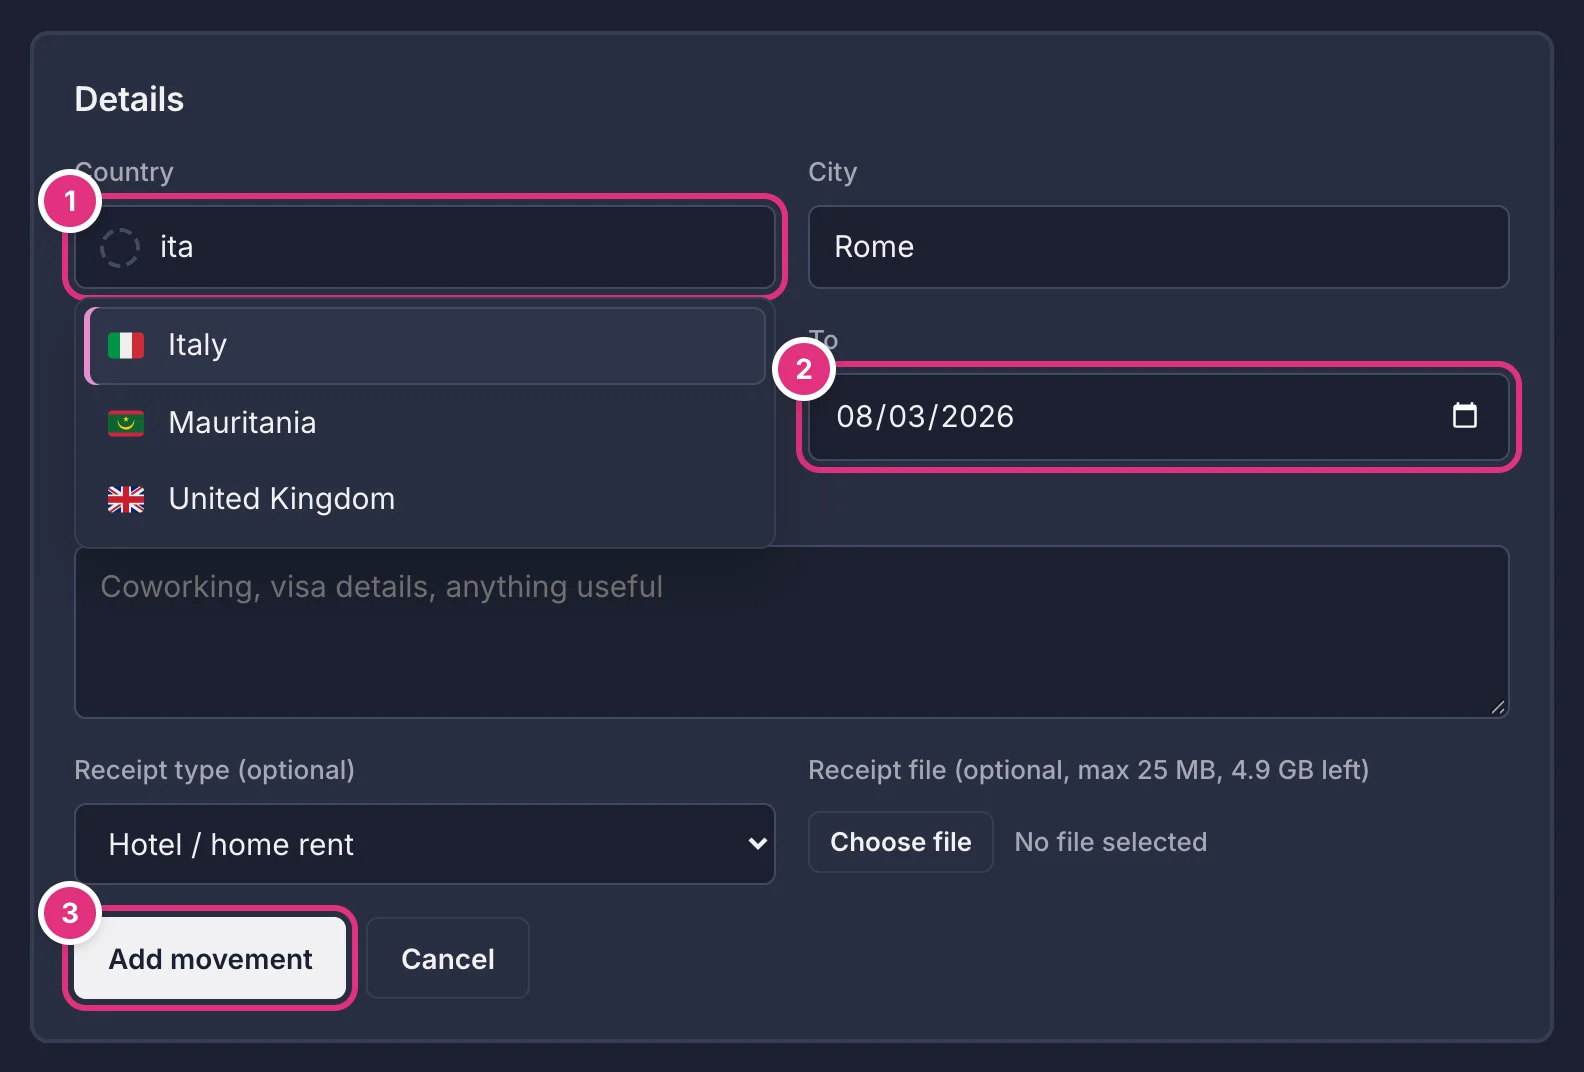
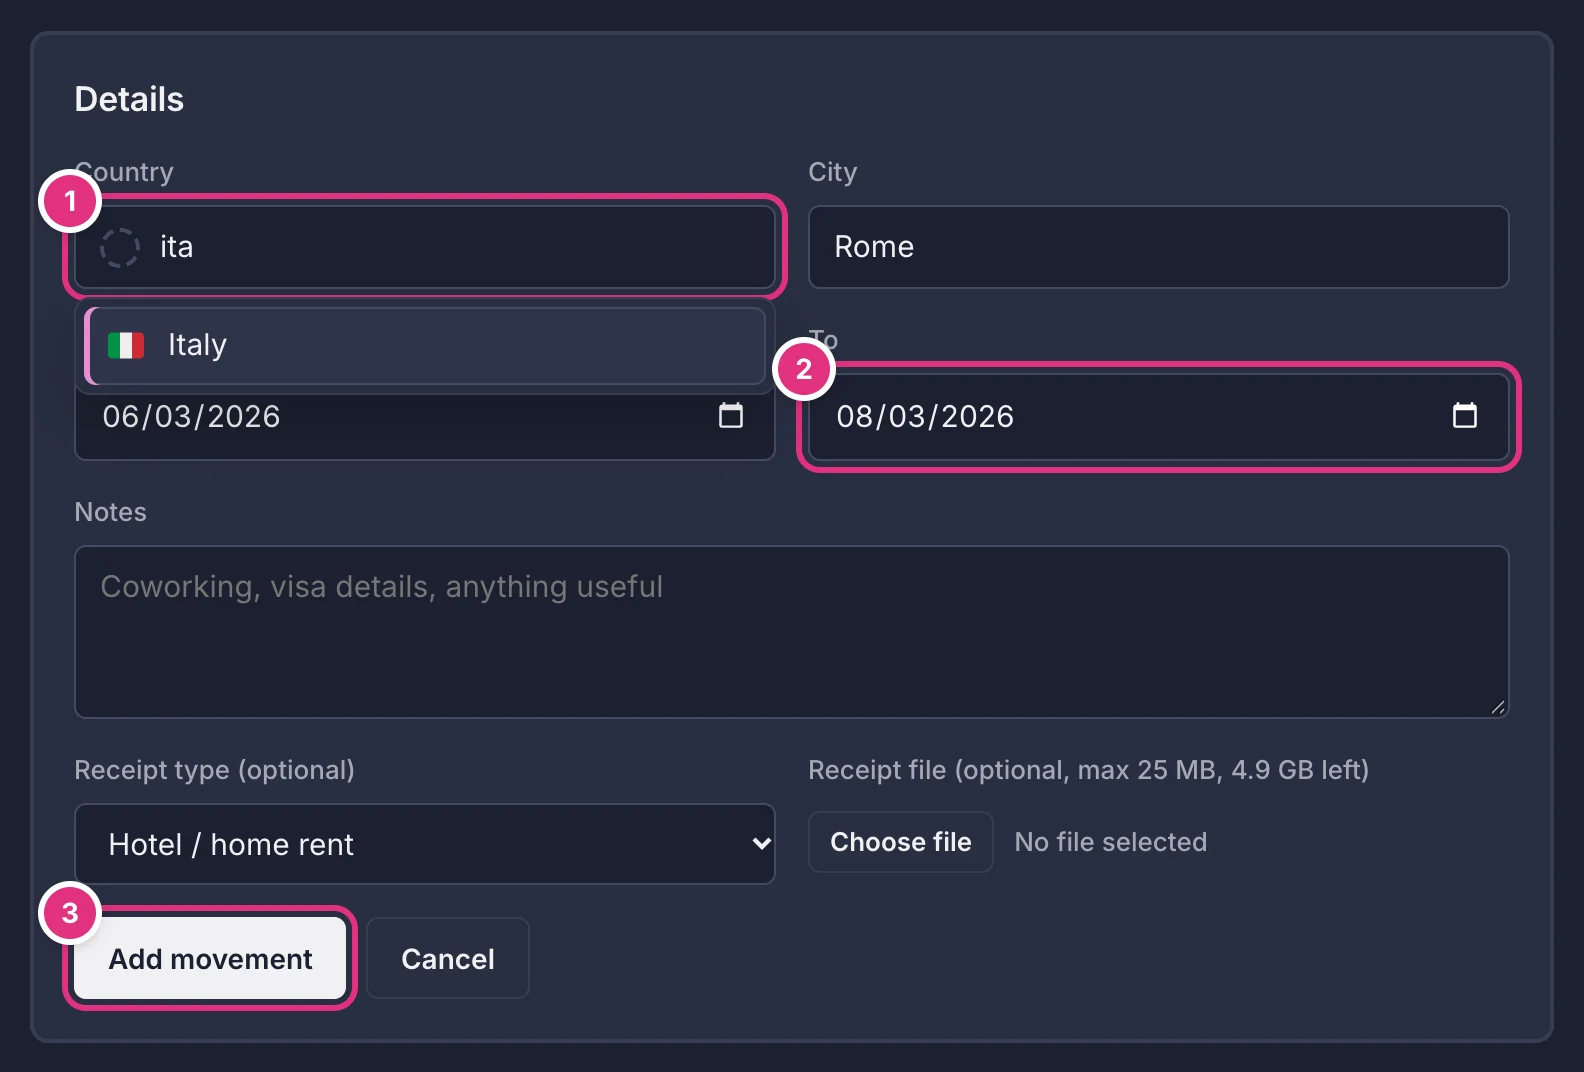
1.12.11: card content at the bottom, country search fixes, card title wording

Changed region(s): [[0.0309, 0.3694, 0.464, 0.5233], [0.4331, 0.3694, 0.4949, 0.4002]]

diff --git a/templates/docs.html b/templates/docs.html
@@ -107,7 +107,7 @@
         <p>A <strong>movement</strong> is a stay away from your base: a trip, a month in another city, a flight day. Log each one with its country, city and dates.</p>
         <section id="add-movement" class="doc-sub" data-doc-title="Add a movement">
           <h3>Add a movement</h3>
-          {{ shot('movement-new', 'The New movement form: after typing "ita" in Country, the list offers Italy, Mauritania and United Kingdom; numbered markers point at Country, the To date and the Add movement button', '1 Pick the country, 2 set the dates, 3 press Add movement. A receipt can be attached right away.') }}
+          {{ shot('movement-new', 'The New movement form: after typing "ita" in Country, the list offers Italy; numbered markers point at Country, the To date and the Add movement button', '1 Pick the country, 2 set the dates, 3 press Add movement. A receipt can be attached right away.') }}
           <ul>
             <li>Press <strong>+ Add movement</strong> on the dashboard.</li>
             <li><strong>Both dates count.</strong> From 1 March to 3 March is 3 days.</li>
@@ -183,7 +183,7 @@
 
         <section id="threshold" class="doc-sub" data-doc-title="The 183 day line">
           <h3>The {{ threshold }} day line</h3>
-          <p>Many countries treat you as a tax resident once you spend {{ threshold }} days or more there in a year. The <strong>Days in Base Country</strong> card marks that line: it says <strong>At least {{ threshold }} days</strong>, or how many days you are short. In <strong>Days per country</strong> a bar turns red when another country reaches {{ threshold }} days.</p>
+          <p>Many countries treat you as a tax resident once you spend {{ threshold }} days or more there in a year. The <strong>Days in Base country</strong> card marks that line: it says <strong>At least {{ threshold }} days</strong>, or how many days you are short. In <strong>Days per country</strong> a bar turns red when another country reaches {{ threshold }} days.</p>
           <p class="doc-note">Nomad Life counts days; it does not give tax advice. Rules differ by country (some count partial days or look at other ties), so check yours with an accountant. The guides on <a href="{{ url_for('guide', slug='183-day-rule') }}">the {{ threshold }} day rule</a> and <a href="{{ url_for('guide', slug='count-days-in-a-country') }}">counting your days</a> explain more.</p>
         </section>
         <p class="doc-top"><a href="#top"><span aria-hidden="true">&uarr;</span> Back to the top</a></p>
@@ -191,13 +191,13 @@
 
       <section id="dashboard" class="doc-section" data-doc-title="Your dashboard">
         <h2>Your dashboard</h2>
-        {{ shot('dashboard', 'The top of the 2026 dashboard: Base Lisbon, Portugal; Days in Base Country 248 of 365, At least 183 days; Days outside the Base Country 34; Year elapsed 274 of 365. Numbered markers point at + Year, + Add movement and Manage base and contract', '1 Add a year, 2 add a movement, 3 manage your base and rental contract.') }}
+        {{ shot('dashboard', 'The top of the 2026 dashboard: Base Lisbon, Portugal; Days in Base country 248 of 365, At least 183 days; Days outside Base country 34; Year elapsed 274 of 365. Numbered markers point at + Year, + Add movement and Manage base and contract', '1 Add a year, 2 add a movement, 3 manage your base and rental contract.') }}
         <section id="cards" class="doc-sub" data-doc-title="The four cards">
           <h3>The four cards</h3>
           <ul>
             <li><strong>Base</strong>: your base city and country, and the link to manage them.</li>
-            <li><strong>Days in Base Country</strong>: days counted for your base, out of the days in the year, with the {{ threshold }} day marker. The <strong>Show {{ threshold }} marker</strong> switch, here and on Days per Country, hides the marker and its message on both cards; this browser remembers it.</li>
-            <li><strong>Days outside the Base Country</strong>: days counted for every other country.</li>
+            <li><strong>Days in Base country</strong>: days counted for your base, out of the days in the year, with the {{ threshold }} day marker. The <strong>Show {{ threshold }} marker</strong> switch, here and on Days per Country, hides the marker and its message on both cards; this browser remembers it.</li>
+            <li><strong>Days outside Base country</strong>: days counted for every other country.</li>
             <li><strong>Year elapsed</strong>: how far into the year today is.</li>
           </ul>
         </section>

diff --git a/static/js/theme.js b/static/js/theme.js
@@ -17,7 +17,7 @@
     });
   }
 
-  // The "Show 183 marker" switches of the Days in Base Country and Days per Country cards, one
+  // The "Show 183 marker" switches of the Days in Base country and Days per Country cards, one
   // setting for both: off hides the marker and its message (.day-marker) through data-marker on
   // <html>, which theme-init.js sets again on the next page before it is drawn. Kept in this
   // browser, for every year; flipping one moves the other too.
@@ -244,7 +244,8 @@
                                 0x1F1E6 + code.toUpperCase().charCodeAt(1) - 65);
   };
   var entries = countries.map(function (c) {
-    return { name: c[0], code: c[1], flag: flagOf(c[1]), keys: [fold(c[0])].concat((c[2] || []).map(fold)) };
+    return { name: c[0], code: c[1], flag: flagOf(c[1]), aliases: c[2] || [],
+             keys: [fold(c[0])].concat((c[2] || []).map(fold)) };
   });
   var exact = {};
   [0, 1, 2].forEach(function (pass) {  // names win over codes, codes over aliases
@@ -253,24 +254,30 @@
       keys.forEach(function (k) { if (!(k in exact)) exact[k] = e; });
     });
   });
+  // Matches the start of a name, of one of its words, or of an alias (never the middle of a
+  // word: "ita" found Mauritania, and United Kingdom through "Britain"). A country found only
+  // through an alias gets that alias as its hint, so "eng" shows "United Kingdom (England)".
   var search = function (query) {
     var q = fold(query);
-    if (!q) return entries.slice();
+    var all = entries.slice();
+    all.hints = [];
+    if (!q) return all;
     var scored = [];
     entries.forEach(function (e) {
-      var best = e.code.toLowerCase() === q ? 1 : 99;
+      var best = e.code.toLowerCase() === q ? 1 : 99, via = "";
       e.keys.forEach(function (k, i) {
         var s = 99, alias = i > 0 ? 1 : 0;
         if (k === q) s = 0 + alias;
         else if (k.indexOf(q) === 0) s = 2 + alias;
-        else if ((" " + k).indexOf(" " + q) >= 0 || k.indexOf("-" + q) >= 0) s = 4 + alias;
-        else if (k.indexOf(q) >= 0) s = 6 + alias;
-        if (s < best) best = s;
+        else if ((" " + k).indexOf(" " + q) >= 0) s = 4 + alias;
+        if (s < best) { best = s; via = alias ? e.aliases[i - 1] : ""; }
       });
-      if (best < 99) scored.push([best, e]);
+      if (best < 99) scored.push([best, e, via]);
     });
     scored.sort(function (a, b) { return a[0] - b[0] || a[1].name.localeCompare(b[1].name); });
-    return scored.map(function (x) { return x[1]; });
+    var found = scored.map(function (x) { return x[1]; });
+    found.hints = scored.map(function (x) { return x[2]; });
+    return found;
   };
 
   document.querySelectorAll("input[data-country-combo]").forEach(function (input, n) {
@@ -345,6 +352,13 @@
         var label = document.createElement("span");
         label.textContent = e.name;
         li.appendChild(f); li.appendChild(label);
+        var hint = items.hints && items.hints[i];
+        if (hint) {  // what the typed text matched: "United Kingdom (England)"
+          var via = document.createElement("span");
+          via.className = "combo-hint";
+          via.textContent = "(" + hint + ")";
+          li.appendChild(via);
+        }
         li.addEventListener("mousedown", function (ev) { ev.preventDefault(); });  // keep focus in the input
         li.addEventListener("click", function () { choose(e); });
         list.appendChild(li);

diff --git a/static/css/style.css b/static/css/style.css
@@ -313,6 +313,9 @@ main:focus { outline: none; }
 .stat-base::before { content: ""; position: absolute; inset: 0 0 auto 0; height: 3px; background: var(--gradient); }
 .stat-head { display: flex; flex-direction: column; gap: 6px; }
 .stat-head .switch { align-self: flex-end; }  /* above the title, at the top right */
+/* Cards in a row share one height: the title stays at the top and the content sits at the
+   bottom, so a card with less to show has its gap under the title, not under the content. */
+.year-stats .stat > .stat-label + *, .year-stats .stat > .stat-head + * { margin-top: auto; }
 
 /* iOS style switch (role="switch", aria-checked), here for the 183 day marker of the Days in
    Base Country and Days per Country cards, one setting for both. Off hides everything marked
@@ -350,6 +353,8 @@ main:focus { outline: none; }
 
 .side { display: grid; grid-template-columns: repeat(3, minmax(0, 1fr)); grid-template-rows: auto 1fr; column-gap: 20px; row-gap: 0; align-items: stretch; min-width: 0; }
 /* Receipt Storage and Accountant Package share row 1 and so always match; Days per Country spans both rows, so it matches them until it has more to show and then alone grows into row 2. */
+.side > .card { display: flex; flex-direction: column; }
+.side > .card > .card-head + * { margin-top: auto; }  /* content at the bottom, as in the top cards */
 .side > .days-card { grid-column: 1; grid-row: 1 / span 2; }
 .side > .storage-card { grid-column: 2; grid-row: 1; }
 .side > .package-card { grid-column: 3; grid-row: 1; }
@@ -563,6 +568,7 @@ main:focus { outline: none; }
 .combo-list li:hover { background: var(--surface-2); }
 .combo-list li[aria-selected="true"] { background: var(--surface-2); box-shadow: inset 3px 0 0 var(--link), inset 0 0 0 1px var(--input-border); }
 .combo-list .flag { width: 22px; text-align: center; font-size: 18px; }
+.combo-hint { color: var(--muted); font-size: 13px; }  /* the alias the typed text matched */
 .combo-empty:empty { display: none; }
 .combo-empty { position: absolute; z-index: 30; left: 0; right: 0; top: calc(100% + 4px); padding: 10px 12px; font-size: 13px; color: var(--muted);
   background: var(--surface); border: 1px solid var(--border); border-radius: 8px; }

diff --git a/templates/dashboard.html b/templates/dashboard.html
@@ -30,7 +30,7 @@
       {# Shown by theme.js; the choice is kept in this browser (theme-init.js applies it before
          the page is drawn). Without JavaScript the marker always shows. #}
       <button type="button" class="switch" role="switch" aria-checked="true" data-marker-switch hidden><span class="switch-label">Show {{ stats.threshold }} marker</span><span class="switch-track" aria-hidden="true"><span class="switch-thumb"></span></span></button>
-      <p class="stat-label">Days in Base Country</p>
+      <p class="stat-label">Days in Base country</p>
     </div>
     <p class="stat-value">{{ stats.base_days }} <span class="muted stat-of">/ {{ stats.total }}</span></p>
     <div class="meter" aria-hidden="true">
@@ -44,7 +44,7 @@
     {% endif %}
   </div>
   <div class="card stat">
-    <p class="stat-label">Days outside the Base Country</p>
+    <p class="stat-label">Days outside Base country</p>
     <p class="stat-value">{{ stats.abroad_days }}</p>
     <p class="muted">{{ movements|length }} movement{{ '' if movements|length == 1 else 's' }} logged</p>
   </div>
@@ -215,7 +215,7 @@
   <section class="card days-card">
     <div class="card-head">
       <h2>Days per Country</h2>
-      {# The same setting as the switch of Days in Base Country: both move together. #}
+      {# The same setting as the switch of Days in Base country: both move together. #}
       <button type="button" class="switch" role="switch" aria-checked="true" data-marker-switch hidden><span class="switch-label">Show {{ stats.threshold }} marker</span><span class="switch-track" aria-hidden="true"><span class="switch-thumb"></span></span></button>
     </div>
     <p class="muted small">A day shared by two stays, such as a travel day, counts toward the stay that started later.</p>

diff --git a/tests/test_country_search.py b/tests/test_country_search.py
@@ -1,0 +1,72 @@
+"""The country picker's search (static/js/theme.js), run in Node on the app's own country list:
+it matches the start of a name, of a word or of an alias, never the middle of a word, and a
+country found through an alias names that alias."""
+import json
+import os
+import shutil
+import subprocess
+import tempfile
+import unittest
+
+import app as appmod
+
+ROOT = os.path.dirname(os.path.dirname(os.path.abspath(__file__)))
+
+
+@unittest.skipUnless(shutil.which("node"), "Node is not installed")
+class CountrySearchTests(unittest.TestCase):
+    @classmethod
+    def setUpClass(cls):
+        with open(os.path.join(ROOT, "static", "js", "theme.js"), encoding="utf-8") as f:
+            js = f.read()
+        code = js[js.index("  var fold = function (s) {"):
+                  js.index('  document.querySelectorAll("input[data-country-combo]")')]
+        data = [[c[0], c[1], list(c[2]) if len(c) > 2 else []] for c in appmod.COUNTRY_DATA]
+        script = ("var countries = %s;\n%s\nvar out = {};\n"
+                  "JSON.parse(process.argv[2]).forEach(function (q) { var r = search(q);\n"
+                  "  out[q] = r.map(function (e, i) { return [e.name, r.hints[i] || \"\"]; }); });\n"
+                  "console.log(JSON.stringify(out));\n" % (json.dumps(data), code))
+        cls.script = tempfile.NamedTemporaryFile("w", suffix=".js", delete=False, encoding="utf-8")
+        cls.script.write(script)
+        cls.script.close()
+
+    @classmethod
+    def tearDownClass(cls):
+        os.unlink(cls.script.name)
+
+    def search(self, *queries):
+        out = subprocess.run(["node", self.script.name, json.dumps(list(queries))],
+                             capture_output=True, text=True, check=True).stdout
+        return json.loads(out)
+
+    def test_letters_inside_a_word_do_not_match(self):
+        found = self.search("ita", "it", "land", "stan")
+        # "ita" found Mauritania, and United Kingdom through the alias "Great Britain".
+        self.assertEqual(found["ita"], [["Italy", ""]])
+        self.assertEqual(found["it"], [["Italy", ""]])
+        self.assertEqual(found["land"], [])
+        self.assertEqual(found["stan"], [])
+
+    def test_names_words_and_codes_still_match(self):
+        found = self.search("new ", "zealand", "gb", "guinea bissau", "united")
+        self.assertEqual([n for n, _ in found["new "]], ["New Caledonia", "New Zealand", "Papua New Guinea"])
+        self.assertEqual(found["zealand"], [["New Zealand", ""]])
+        self.assertEqual(found["gb"][0], ["United Kingdom", ""])
+        self.assertEqual(found["guinea bissau"][0], ["Guinea-Bissau", ""])
+        self.assertIn(["United Kingdom", ""], found["united"])
+
+    def test_a_country_found_through_an_alias_names_it(self):
+        found = self.search("eng", "holland", "st lucia")
+        self.assertEqual(found["eng"], [["United Kingdom", "England"]])
+        self.assertEqual(found["holland"], [["Netherlands", "Holland"]])
+        self.assertEqual(found["st lucia"][0], ["Saint Lucia", "St Lucia"])
+
+    def test_the_hint_is_shown_in_the_list(self):
+        with open(os.path.join(ROOT, "static", "js", "theme.js"), encoding="utf-8") as f:
+            js = f.read()
+        self.assertIn('via.className = "combo-hint";', js)
+        self.assertIn('via.textContent = "(" + hint + ")";', js)
+
+
+if __name__ == "__main__":
+    unittest.main()

diff --git a/tests/test_marker_switch.py b/tests/test_marker_switch.py
@@ -1,4 +1,4 @@
-"""The "Show 183 marker" switch of the Days in Base Country card, and the renamed cards."""
+"""The "Show 183 marker" switch of the Days in Base country card, and the renamed cards."""
 import os
 
 import app as appmod
@@ -31,7 +31,7 @@ class MarkerSwitchTests(AppTestCase):
                       card)
         self.assertIn('<i class="day-marker" style="left:', card)
         self.assertIn('<p class="pill pill-warn day-marker">', card)
-        self.assertIn('<p class="stat-label">Days outside the Base Country</p>', html)
+        self.assertIn('<p class="stat-label">Days outside Base country</p>', html)
         # The same switch on Days per Country, one setting for both.
         self.assertEqual(html.count(f'data-marker-switch hidden><span class="switch-label">Show {threshold} marker</span>'), 2)
         self.assertNotIn("Days abroad", html)
@@ -39,7 +39,7 @@ class MarkerSwitchTests(AppTestCase):
     def test_the_switch_sits_above_the_title(self):
         self.new_year(2030)
         _, card = self.card(2030)
-        self.assertLess(card.index("data-marker-switch"), card.index('<p class="stat-label">Days in Base Country</p>'))
+        self.assertLess(card.index("data-marker-switch"), card.index('<p class="stat-label">Days in Base country</p>'))
         css = read("static", "css", "style.css")
         self.assertIn(".stat-head .switch { align-self: flex-end; }", css)
         # The four top cards' titles look like the card titles below them (h2).

diff --git a/tests/test_card_alignment.py b/tests/test_card_alignment.py
@@ -1,0 +1,27 @@
+"""Dashboard cards in a row share one height: the title stays at the top and the content sits at
+the bottom (the four top cards and the three cards under the Map)."""
+import os
+import unittest
+
+ROOT = os.path.dirname(os.path.dirname(os.path.abspath(__file__)))
+
+
+def css():
+    with open(os.path.join(ROOT, "static", "css", "style.css"), encoding="utf-8") as f:
+        return f.read()
+
+
+class CardAlignmentTests(unittest.TestCase):
+    def test_top_cards_put_their_content_at_the_bottom(self):
+        # Scoped to the dashboard: the admin page's .stat cards keep their layout.
+        self.assertIn(".year-stats .stat > .stat-label + *, .year-stats .stat > .stat-head + * "
+                      "{ margin-top: auto; }", css())
+
+    def test_cards_under_the_map_put_their_content_at_the_bottom(self):
+        text = css()
+        self.assertIn(".side > .card { display: flex; flex-direction: column; }", text)
+        self.assertIn(".side > .card > .card-head + * { margin-top: auto; }", text)
+
+
+if __name__ == "__main__":
+    unittest.main()

diff --git a/tests/test_fixes.py b/tests/test_fixes.py
@@ -101,7 +101,7 @@ class DataTests(AppTestCase):
         self.add_movement(2025, "Hilo", "Hawai'i", "2025-05-01", "2025-05-02")
         self.add_movement(2025, "Kona", "Hawai’i", "2025-06-01", "2025-06-02")
         html = self.client.get("/year/2025").data.decode()
-        abroad = re.search(r'Days outside the Base Country</p>\s*<p class="stat-value">(\d+)<', html).group(1)
+        abroad = re.search(r'Days outside Base country</p>\s*<p class="stat-value">(\d+)<', html).group(1)
         self.assertEqual(abroad, "4")  # Somaliland is the base; both Hawaii spellings are one
         self.assertIn("4 days (4 so far)", html)
         self.assertNotIn("2 days (2 so far)", html)

diff --git a/CHANGELOG.md b/CHANGELOG.md
@@ -7,16 +7,22 @@ All notable changes to this project are documented in this file.
 ### Added
 
 - **Calendar** on the year dashboard, before the Map, with a calendar icon and its year in the title, such as **Calendar (2027)**. It starts folded and opens with a click on its head. It shows the selected year's 12 months (four a row on wide screens, then three, two and one), each day in the color of the country it counts for, with the same rules as Days per Country: a shared day goes to the stay that started later, past days without a stay are the base, and days still to come without a stay are grey ("Not planned yet"). A legend lists each country with its flag and days; pointing at a day shows its date, country and city, and today has an outline. The colors are set for the light and dark themes, with every day number readable. The documentation has a section on it.
-- **Show 183 marker** switch, iOS style, in the top right of the Days in Base Country and Days per Country cards, one setting for both: off hides the 183 day tick and its message ("N days short of 183", "At least 183 days") and the tick on every country bar. This browser remembers the choice for every year, applied before the page is drawn so it never flashes.
+- **Show 183 marker** switch, iOS style, in the top right of the Days in Base country and Days per Country cards, one setting for both: off hides the 183 day tick and its message ("N days short of 183", "At least 183 days") and the tick on every country bar. This browser remembers the choice for every year, applied before the page is drawn so it never flashes.
 
 ### Changed
 
-- The cards **Days in base country** and **Days abroad** are now **Days in Base Country** and **Days outside the Base Country**. The accountant package keeps its wording.
-- The titles of the four top cards (Base, Days in Base Country, Days outside the Base Country, Year elapsed) have the style of the card titles below them, such as Days per Country; on Days in Base Country the switch sits above the title.
+- The cards **Days in base country** and **Days abroad** are now **Days in Base country** and **Days outside Base country**. The accountant package keeps its wording.
+- The titles of the four top cards (Base, Days in Base country, Days outside Base country, Year elapsed) have the style of the card titles below them, such as Days per Country; on Days in Base country the switch sits above the title.
 - The lines in the Calendar and Map heads read **Your 2027 day-by-day plan** and **Your 2027 locations on the map**, with the year of the open tab.
 - The Days per Country help text is shorter: "A day shared by two stays, such as a travel day, counts toward the stay that started later."
+- **Content at the bottom of the cards.** In the four top cards and the three cards under the Map, the title stays at the top and the numbers and text sit at the bottom of the card, so cards of one row line up.
 
 ### Fixed
+
+Found in a review of the country picker (2 bugs):
+
+- **Low.** The country search matched letters in the middle of words, so "ita" also offered Mauritania and United Kingdom (through "Great Britain"), and "it" a list of unrelated countries. It now matches the start of a name, of one of its words, of an alias or the country code.
+- **Low.** A country found through another name showed no reason: "eng" offered "United Kingdom". The name it matched now shows next to it, as in "United Kingdom (England)" or "Netherlands (Holland)".
 
 Found in a review of the interface, including the new switch and calendar (2 bugs):
 
